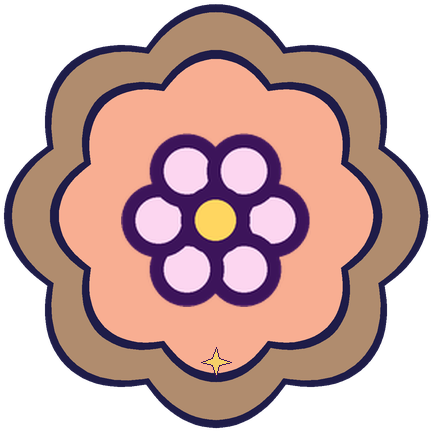
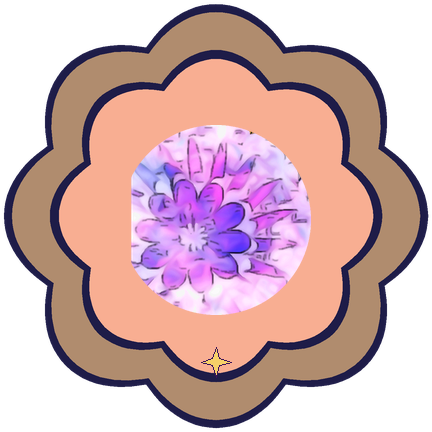
Added sub badges

Changed region(s): [[0.2708, 0.2708, 0.7222, 0.7523]]

diff --git a/index.html b/index.html
@@ -7424,13 +7424,13 @@
       <a class="proj-btn" href="images/twitch/Badges/3_5year_432.png?v=0bc9ffaf" target="_blank" rel="noopener" title="Twitch subscriber badge: 3.5 year">3.5 year</a>
       <a class="proj-btn" href="images/twitch/Badges/4year_432.png?v=301eaa33" target="_blank" rel="noopener" title="Twitch subscriber badge: 4 year">4 year</a>
       <a class="proj-btn" href="images/twitch/Badges/4_5year_432.png?v=e26e3e9c" target="_blank" rel="noopener" title="Twitch subscriber badge: 4.5 year">4.5 year</a>
-      <a class="proj-btn" href="images/twitch/Floral/Badges/1year_432.png?v=2195f3b2" target="_blank" rel="noopener" title="Twitch subscriber badge: Floral 1 year">Floral 1 year</a>
-      <a class="proj-btn" href="images/twitch/Floral/Badges/2year_432.png?v=2feb48c9" target="_blank" rel="noopener" title="Twitch subscriber badge: Floral 2 year">Floral 2 year</a>
-      <a class="proj-btn" href="images/twitch/Floral/Badges/3month_432.png?v=0bb03b35" target="_blank" rel="noopener" title="Twitch subscriber badge: Floral 3 month">Floral 3 month</a>
-      <a class="proj-btn" href="images/twitch/Floral/Badges/3year_432.png?v=70b19bd4" target="_blank" rel="noopener" title="Twitch subscriber badge: Floral 3 year">Floral 3 year</a>
-      <a class="proj-btn" href="images/twitch/Floral/Badges/6month_432.png?v=33811fd1" target="_blank" rel="noopener" title="Twitch subscriber badge: Floral 6 month">Floral 6 month</a>
-      <a class="proj-btn" href="images/twitch/Floral/Badges/9month_432.png?v=933a455a" target="_blank" rel="noopener" title="Twitch subscriber badge: Floral 9 month">Floral 9 month</a>
-      <a class="proj-btn" href="images/twitch/Floral/Badges/base_432.png?v=faf703bb" target="_blank" rel="noopener" title="Twitch subscriber badge: Floral base">Floral base</a>
+      <a class="proj-btn" href="images/twitch/Floral/Badges/1year_432.png?v=36248053" target="_blank" rel="noopener" title="Twitch subscriber badge: Floral 1 year">Floral 1 year</a>
+      <a class="proj-btn" href="images/twitch/Floral/Badges/2year_432.png?v=74af9009" target="_blank" rel="noopener" title="Twitch subscriber badge: Floral 2 year">Floral 2 year</a>
+      <a class="proj-btn" href="images/twitch/Floral/Badges/3month_432.png?v=9de28d2f" target="_blank" rel="noopener" title="Twitch subscriber badge: Floral 3 month">Floral 3 month</a>
+      <a class="proj-btn" href="images/twitch/Floral/Badges/3year_432.png?v=b2afe9dc" target="_blank" rel="noopener" title="Twitch subscriber badge: Floral 3 year">Floral 3 year</a>
+      <a class="proj-btn" href="images/twitch/Floral/Badges/6month_432.png?v=5c3b7493" target="_blank" rel="noopener" title="Twitch subscriber badge: Floral 6 month">Floral 6 month</a>
+      <a class="proj-btn" href="images/twitch/Floral/Badges/9month_432.png?v=77e88cef" target="_blank" rel="noopener" title="Twitch subscriber badge: Floral 9 month">Floral 9 month</a>
+      <a class="proj-btn" href="images/twitch/Floral/Badges/base_432.png?v=800b76b5" target="_blank" rel="noopener" title="Twitch subscriber badge: Floral base">Floral base</a>
       <a class="proj-btn" href="images/twitch/Helmet/Badges/1year_432.png?v=21ecb67f" target="_blank" rel="noopener" title="Twitch subscriber badge: Helmet 1 year">Helmet 1 year</a>
       <a class="proj-btn" href="images/twitch/Helmet/Badges/2year_432.png?v=039fe069" target="_blank" rel="noopener" title="Twitch subscriber badge: Helmet 2 year">Helmet 2 year</a>
       <a class="proj-btn" href="images/twitch/Helmet/Badges/3month_432.png?v=74e0b304" target="_blank" rel="noopener" title="Twitch subscriber badge: Helmet 3 month">Helmet 3 month</a>
@@ -7445,13 +7445,13 @@
       <a class="proj-btn" href="images/twitch/Hood/Badges/6month_432.png?v=32897622" target="_blank" rel="noopener" title="Twitch subscriber badge: Hood 6 month">Hood 6 month</a>
       <a class="proj-btn" href="images/twitch/Hood/Badges/9month_432.png?v=953063ef" target="_blank" rel="noopener" title="Twitch subscriber badge: Hood 9 month">Hood 9 month</a>
       <a class="proj-btn" href="images/twitch/Hood/Badges/base_432.png?v=5a50e0ec" target="_blank" rel="noopener" title="Twitch subscriber badge: Hood base">Hood base</a>
-      <a class="proj-btn" href="images/twitch/Northbeam/Badges/1year_432.png?v=f5162ee7" target="_blank" rel="noopener" title="Twitch subscriber badge: Northbeam 1 year">Northbeam 1 year</a>
-      <a class="proj-btn" href="images/twitch/Northbeam/Badges/2year_432.png?v=44dc0d74" target="_blank" rel="noopener" title="Twitch subscriber badge: Northbeam 2 year">Northbeam 2 year</a>
-      <a class="proj-btn" href="images/twitch/Northbeam/Badges/3month_432.png?v=6c27897e" target="_blank" rel="noopener" title="Twitch subscriber badge: Northbeam 3 month">Northbeam 3 month</a>
-      <a class="proj-btn" href="images/twitch/Northbeam/Badges/3year_432.png?v=2fee0f3f" target="_blank" rel="noopener" title="Twitch subscriber badge: Northbeam 3 year">Northbeam 3 year</a>
-      <a class="proj-btn" href="images/twitch/Northbeam/Badges/6month_432.png?v=daa7f0c9" target="_blank" rel="noopener" title="Twitch subscriber badge: Northbeam 6 month">Northbeam 6 month</a>
-      <a class="proj-btn" href="images/twitch/Northbeam/Badges/9month_432.png?v=11ccbcc7" target="_blank" rel="noopener" title="Twitch subscriber badge: Northbeam 9 month">Northbeam 9 month</a>
-      <a class="proj-btn" href="images/twitch/Northbeam/Badges/base_432.png?v=62062f25" target="_blank" rel="noopener" title="Twitch subscriber badge: Northbeam base">Northbeam base</a>
+      <a class="proj-btn" href="images/twitch/Northbeam/Badges/1year_432.png?v=7ee1ea3c" target="_blank" rel="noopener" title="Twitch subscriber badge: Northbeam 1 year">Northbeam 1 year</a>
+      <a class="proj-btn" href="images/twitch/Northbeam/Badges/2year_432.png?v=787bb73b" target="_blank" rel="noopener" title="Twitch subscriber badge: Northbeam 2 year">Northbeam 2 year</a>
+      <a class="proj-btn" href="images/twitch/Northbeam/Badges/3month_432.png?v=5c50b258" target="_blank" rel="noopener" title="Twitch subscriber badge: Northbeam 3 month">Northbeam 3 month</a>
+      <a class="proj-btn" href="images/twitch/Northbeam/Badges/3year_432.png?v=24508e62" target="_blank" rel="noopener" title="Twitch subscriber badge: Northbeam 3 year">Northbeam 3 year</a>
+      <a class="proj-btn" href="images/twitch/Northbeam/Badges/6month_432.png?v=2a0d36a7" target="_blank" rel="noopener" title="Twitch subscriber badge: Northbeam 6 month">Northbeam 6 month</a>
+      <a class="proj-btn" href="images/twitch/Northbeam/Badges/9month_432.png?v=867e8b47" target="_blank" rel="noopener" title="Twitch subscriber badge: Northbeam 9 month">Northbeam 9 month</a>
+      <a class="proj-btn" href="images/twitch/Northbeam/Badges/base_432.png?v=687f467a" target="_blank" rel="noopener" title="Twitch subscriber badge: Northbeam base">Northbeam base</a>
       <a class="proj-btn" href="images/twitch/Perfum/Badges/1year_432.png?v=e9efe435" target="_blank" rel="noopener" title="Twitch subscriber badge: Perfum 1 year">Perfum 1 year</a>
       <a class="proj-btn" href="images/twitch/Perfum/Badges/2year_432.png?v=3ff929cf" target="_blank" rel="noopener" title="Twitch subscriber badge: Perfum 2 year">Perfum 2 year</a>
       <a class="proj-btn" href="images/twitch/Perfum/Badges/3month_432.png?v=052d755b" target="_blank" rel="noopener" title="Twitch subscriber badge: Perfum 3 month">Perfum 3 month</a>

diff --git a/tools/make_redo.py b/tools/make_redo.py
@@ -47,7 +47,7 @@ def portrait_disc(C, size):
     return pic
 
 
-ART_BADGE = ("Snake", "Tessel", "Perfum", "Northbeam")
+ART_BADGE = ("Snake", "Tessel", "Perfum", "Northbeam", "Floral")
 
 
 def art_icon(C, size, tier_idx):
@@ -81,15 +81,18 @@ def badge(C, name, tier_idx, prop, size=432):
     ring = RING[tier_idx] if tier_idx < 3 else (C["main"] if tier_idx < 5 else C["accent"])
     img = ms.medallion(C, size, None, ring)
     inner = int(size * (0.40 + 0.04 * tier_idx))
+    tri = C["shape"] == "triangle"
+    if tri:
+        inner = int(size * (0.30 + 0.02 * tier_idx))
     if name in ART_BADGE:
         ic = art_icon(C, inner, tier_idx)
     else:
         ic = prop_img(C, SIG[name], inner)
-    img.alpha_composite(ic, ((size - inner) // 2, (size - inner) // 2 + 4))
+    img.alpha_composite(ic, ((size - inner) // 2, (size - inner) // 2 + (34 if tri else 4)))
     d = ImageDraw.Draw(img)
     for i in range(tier_idx):                     # one star per tier along the bottom
         x = size / 2 + (i - (tier_idx - 1) / 2.0) * 36
-        mr.sparkle(d, 1, x, size - 70, 15, fill=C["accent"])
+        mr.sparkle(d, 1, x, size - (92 if tri else 70), 13 if tri else 15, fill=C["accent"])
     if tier_idx >= 4 and name not in ART_BADGE:   # two small companions from tier 5
         for sx in (-1, 1):
             sm = prop_img(C, SIG[name], int(size * 0.16))
